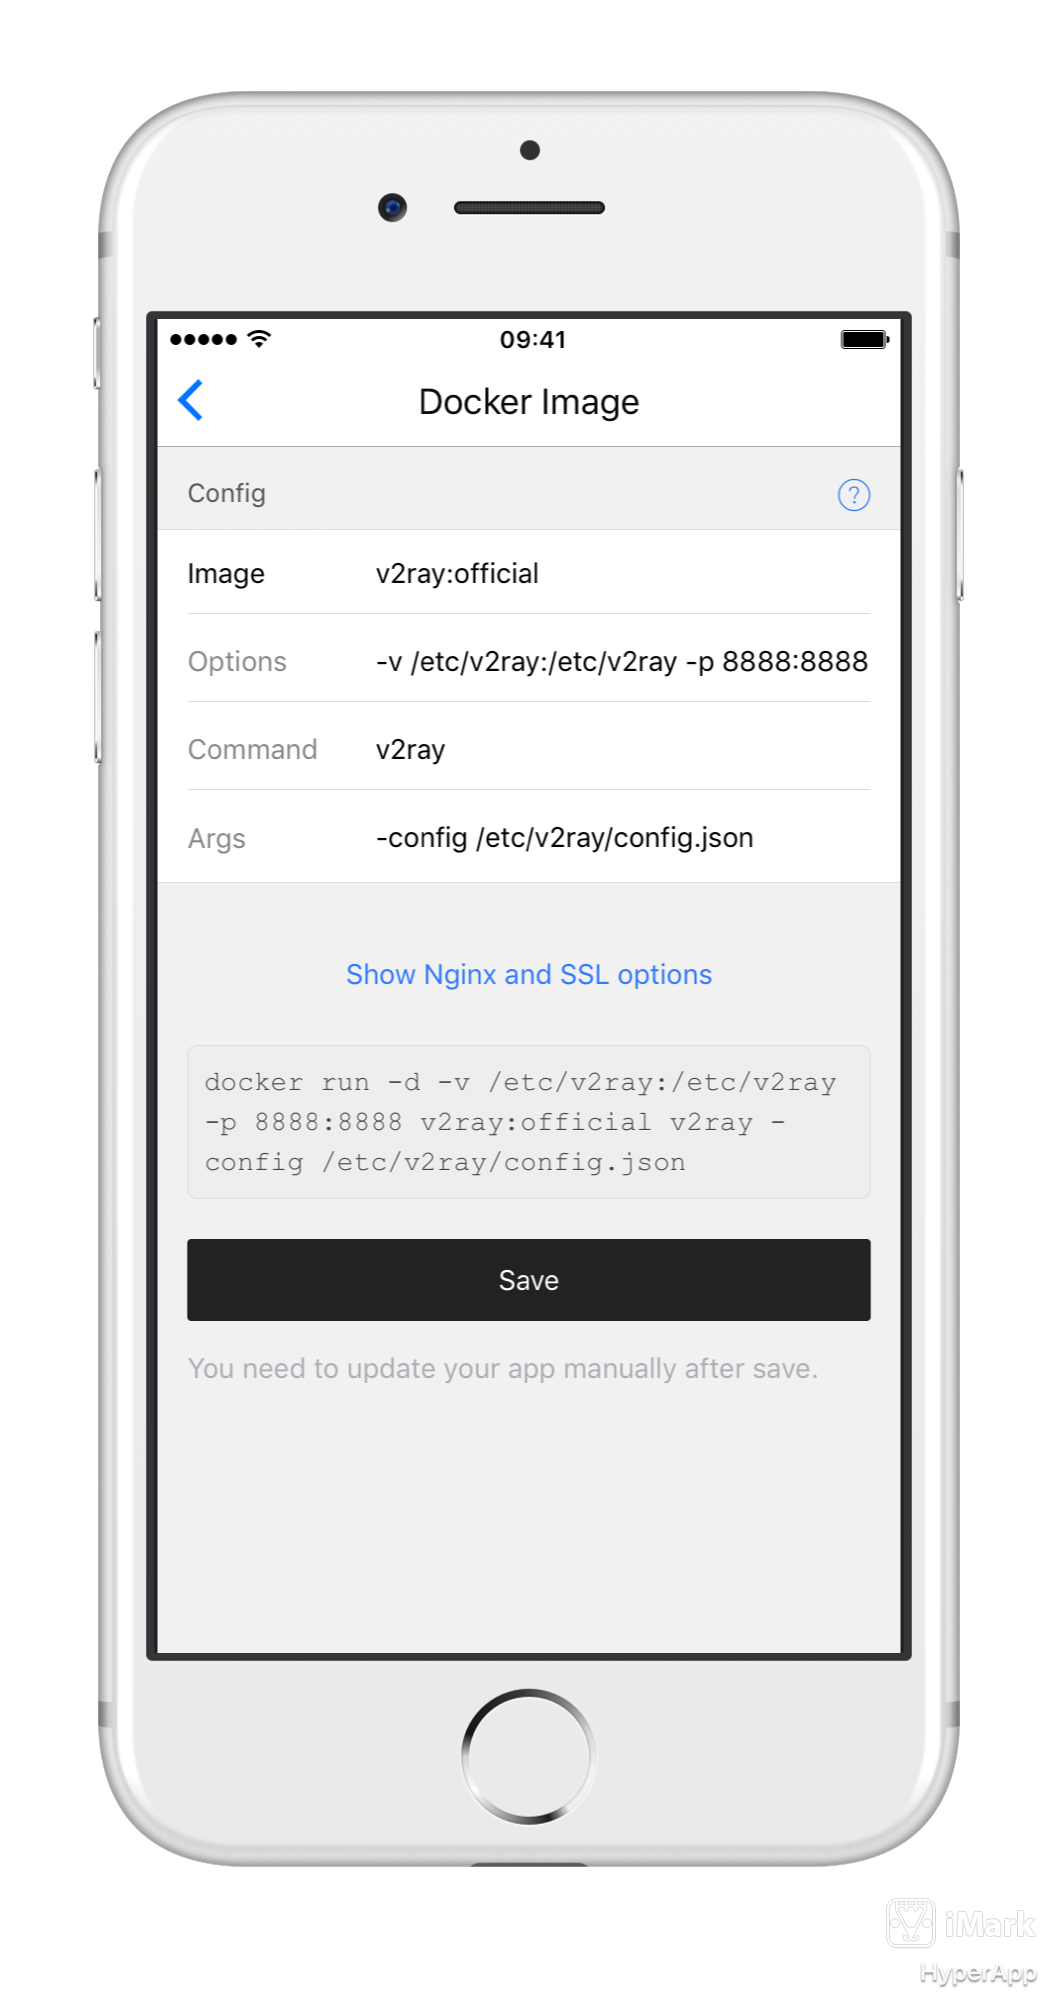
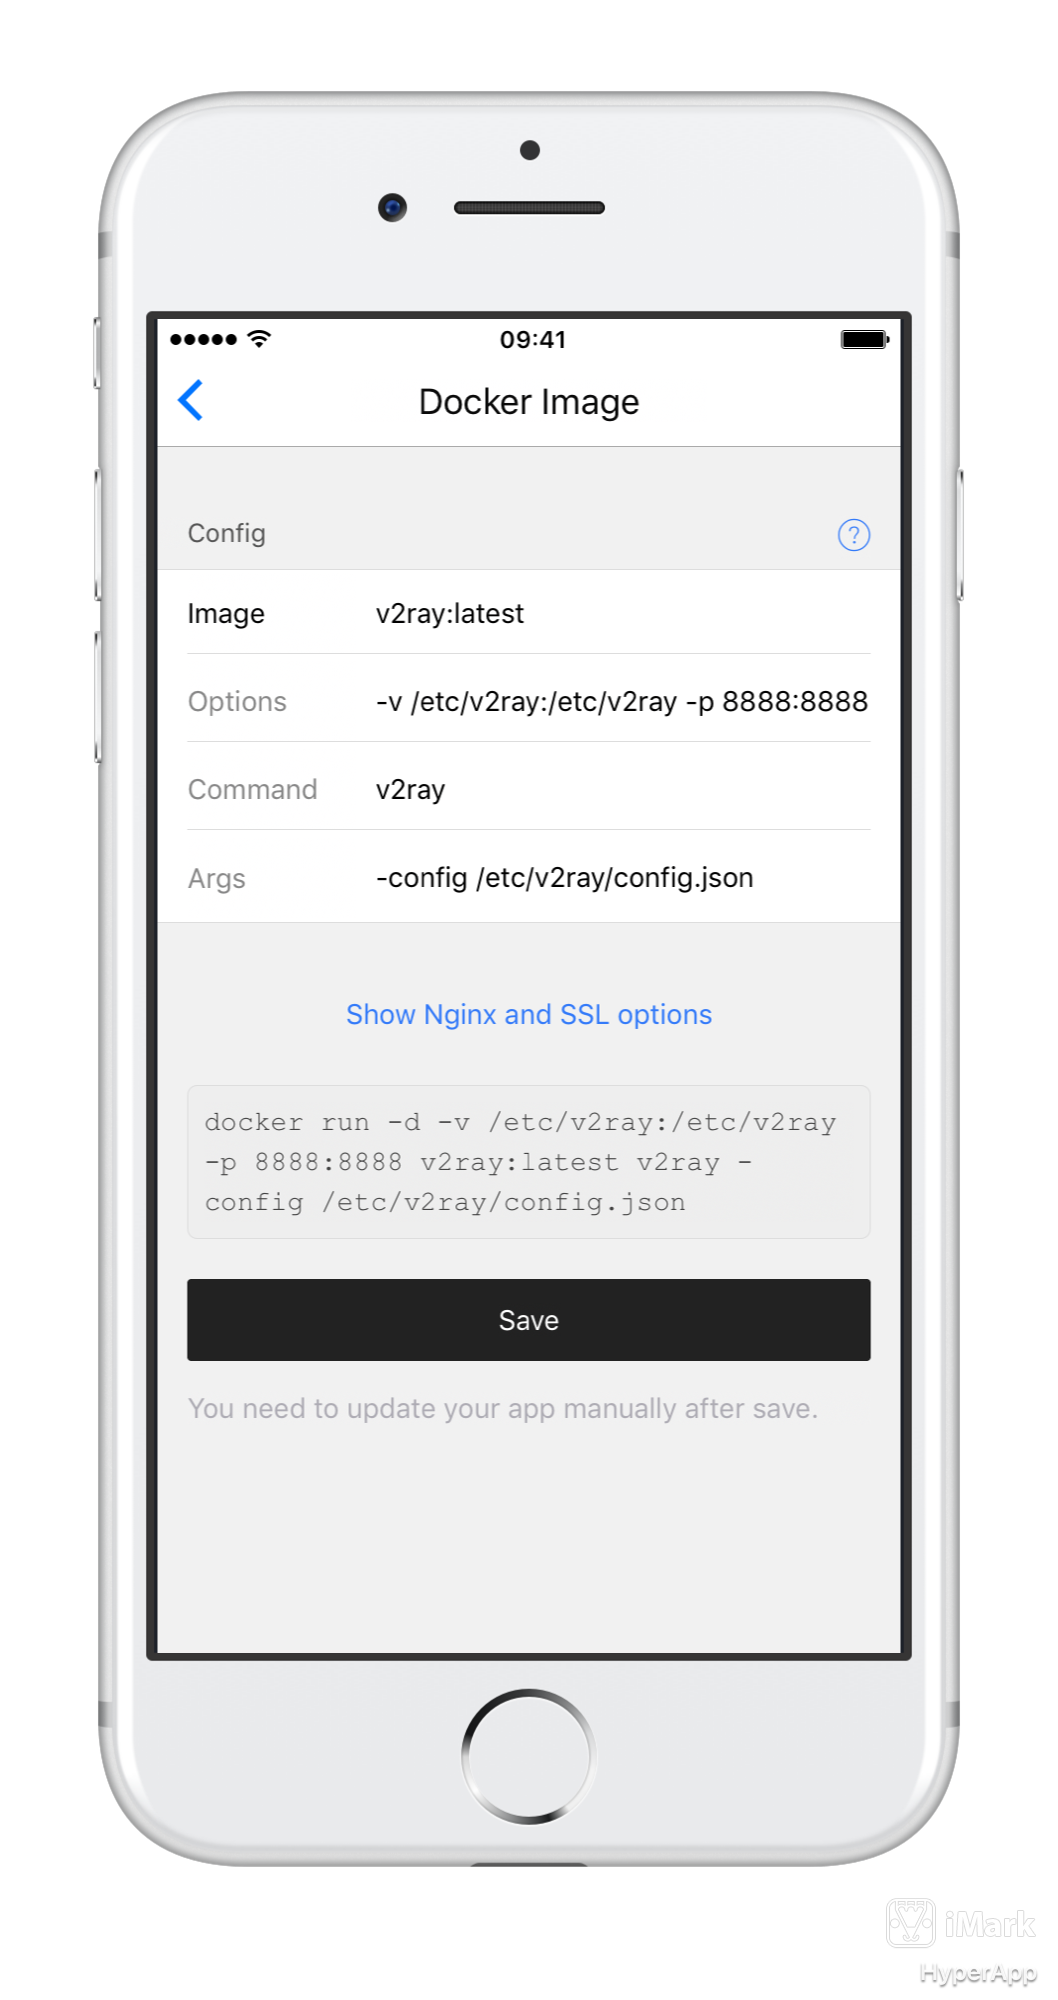
修改错误

diff --git a/zh/advanced/docker-image-v2ray.md b/zh/advanced/docker-image-v2ray.md
@@ -2,7 +2,7 @@
 
 本次教程介绍如何使用HyperApp中的DockerImage应用搭建V2ray，以实现自由度更大的配置方式。
 
-我们先从 [DockerHub](https://hub.docker.com/) 通过搜索找到 V2ray 官方提供的镜像, 链接[在此](https://hub.docker.com/r/v2ray/official/)。我们可以发现，镜像名为v2ray,点击网页中的"tag"可以看出标签为`official` ,我们将这两个值其复制下来回到`DockerImage`中的`Image`出粘贴，即`v2ray:official`
+我们先从 [DockerHub](https://hub.docker.com/) 通过搜索找到 V2ray 官方提供的镜像, 链接[在此](https://hub.docker.com/r/v2ray/official/)。我们可以发现，镜像名为v2ray,点击网页中的"tag"可以看出标签为`latest` ,我们将这两个值其复制下来回到`DockerImage`中的`Image`出粘贴，即`v2ray:latest`
 
 在此之前,你需要在 /etc 目录下新建一个文件夹 v2ray, 并把你的配置写好后命令为 config.json 放入 v2ray 文件夹内。此处根据需求假设
 ```
